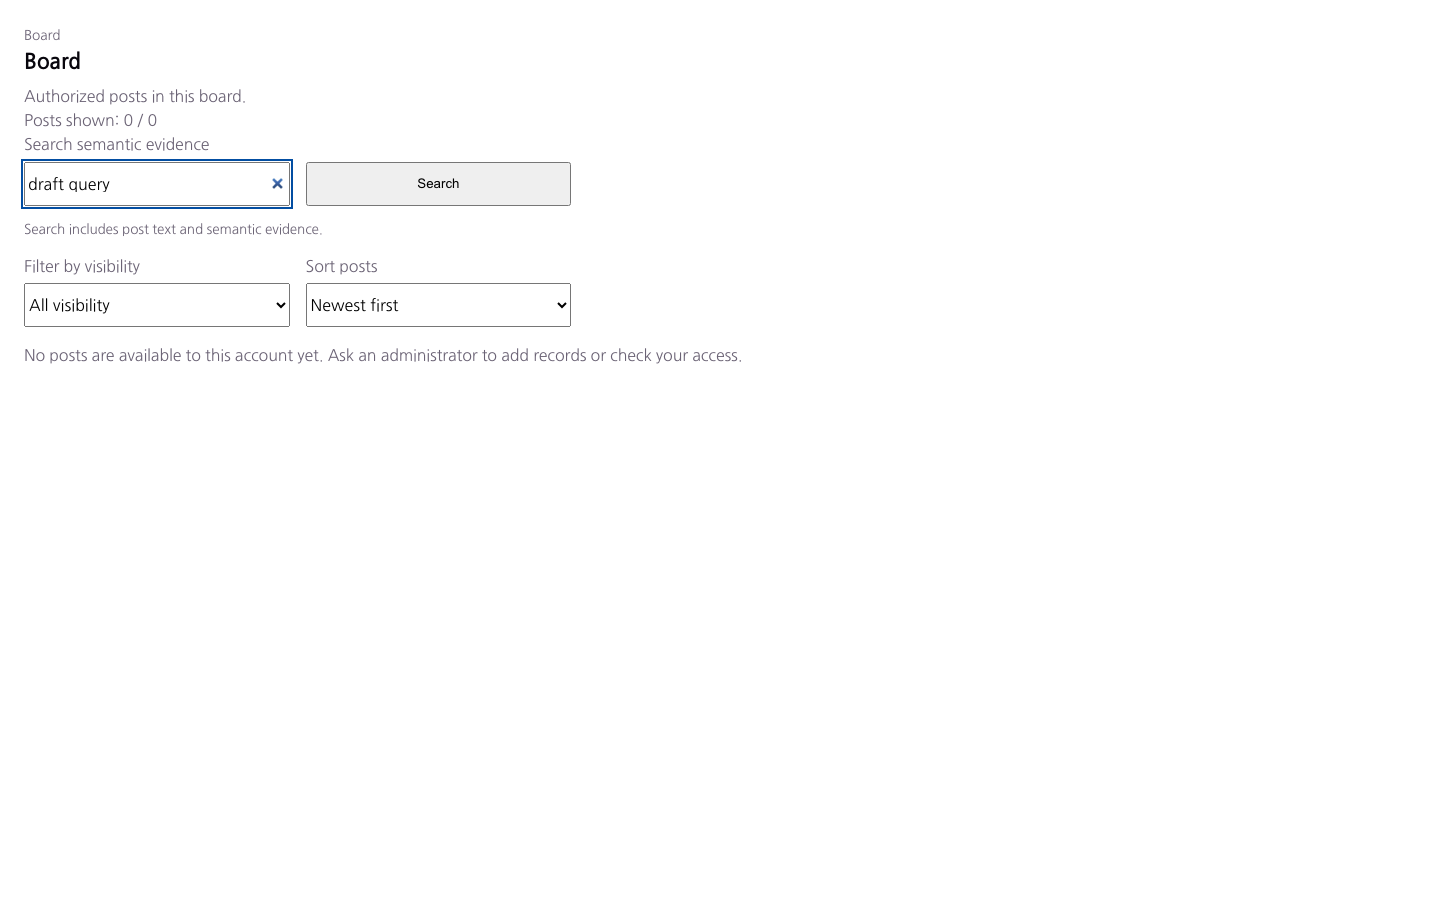
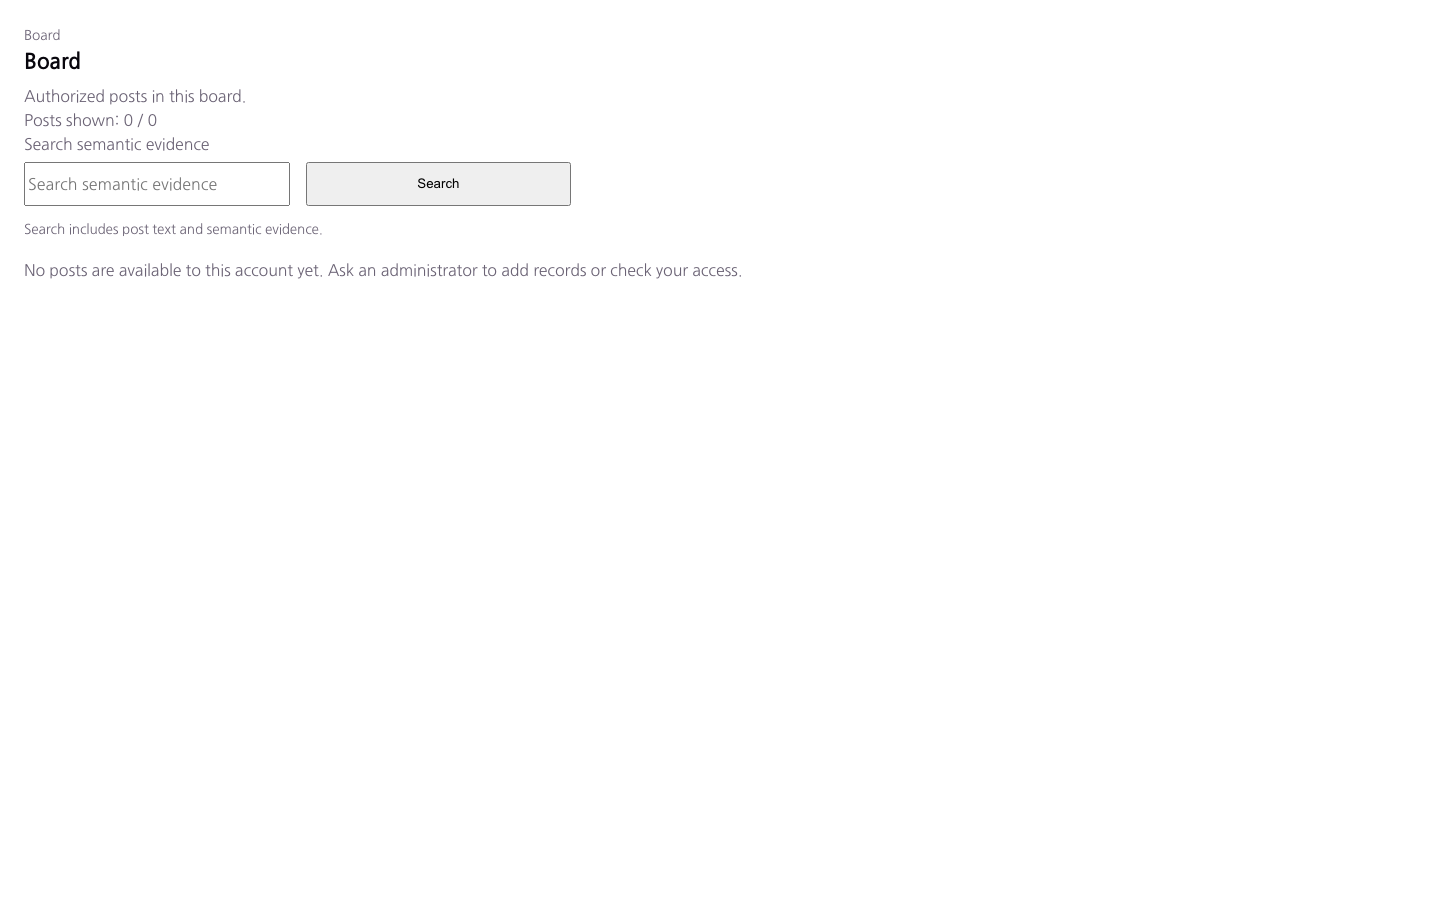
fix(board): hide unusable controls on empty board

diff --git a/frontend/src/App.tsx b/frontend/src/App.tsx
@@ -4458,6 +4458,7 @@ export function PostList({
       return direction * left.created_at.localeCompare(right.created_at);
     });
   const hasBoardFilters = Boolean(searchQuery) || typeFilter.length > 0 || visibilityFilter !== "all";
+  const emptyUnfilteredBoard = totalPosts === 0 && !hasBoardFilters;
   const totalPages = Math.max(1, Math.ceil(totalPosts / POST_PAGE_SIZE));
   const pageItems: Array<number | "ellipsis"> =
     totalPages <= 7
@@ -4548,7 +4549,7 @@ export function PostList({
                 ))}
               </fieldset>
             ) : null}
-            <label>
+            {!emptyUnfilteredBoard && <label>
               {t("Filter by visibility")}
               <select
                 value={visibilityFilter}
@@ -4562,8 +4563,8 @@ export function PostList({
                   </option>
                 ))}
               </select>
-            </label>
-            <label>
+            </label>}
+            {!emptyUnfilteredBoard && <label>
               {t("Sort posts")}
               <select
                 value={sortOrder}
@@ -4574,7 +4575,7 @@ export function PostList({
                 <option value="oldest">{t("Oldest first")}</option>
                 <option value="title">{t("Title A-Z")}</option>
               </select>
-            </label>
+            </label>}
             {hasBoardFilters && (
               <button type="reset" className="board-reset">
                 {t("Reset filters")}

diff --git a/frontend/src/App.test.tsx b/frontend/src/App.test.tsx
@@ -2747,6 +2747,8 @@ describe("App, authenticated", () => {
     );
     expect(within(board).getByRole("search", { name: "Search and filter posts" })).toBeInTheDocument();
     expect(within(board).queryByRole("group", { name: "Filter by VOC type" })).not.toBeInTheDocument();
+    expect(within(board).queryByRole("combobox", { name: "Filter by visibility" })).not.toBeInTheDocument();
+    expect(within(board).queryByRole("combobox", { name: "Sort posts" })).not.toBeInTheDocument();
     expect(within(board).queryByText(/make seed/)).not.toBeInTheDocument();
     await userEvent.type(within(board).getByRole("searchbox", { name: "Search semantic evidence" }), "draft query");
     expect(within(board).getByRole("status")).toHaveTextContent(
@@ -2754,6 +2756,8 @@ describe("App, authenticated", () => {
     );
     await userEvent.click(within(board).getByRole("button", { name: "Search" }));
     expect(await within(board).findByText("No posts match the current filters.")).toBeInTheDocument();
+    expect(within(board).getByRole("combobox", { name: "Filter by visibility" })).toBeInTheDocument();
+    expect(within(board).getByRole("combobox", { name: "Sort posts" })).toBeInTheDocument();
   });
 
   it("hides the previous result set while a new board search is pending", async () => {

diff --git a/frontend/src/components/PostList.stories.tsx b/frontend/src/components/PostList.stories.tsx
@@ -99,11 +99,11 @@ export const EmptyBoard: Story = {
   },
   play: async ({ canvasElement }) => {
     const canvas = within(canvasElement);
-    await expect(await canvas.findByRole("status")).toHaveTextContent(
-      "Ask an administrator to add records or check your access.",
-    );
+    await canvas.findByText(/Ask an administrator to add records or check your access/);
     await expect(canvas.getByRole("search", { name: "Search and filter posts" })).toBeInTheDocument();
     await expect(canvas.queryByRole("group", { name: "Filter by VOC type" })).not.toBeInTheDocument();
+    await expect(canvas.queryByRole("combobox", { name: "Filter by visibility" })).not.toBeInTheDocument();
+    await expect(canvas.queryByRole("combobox", { name: "Sort posts" })).not.toBeInTheDocument();
     await userEvent.type(canvas.getByRole("searchbox", { name: "Search semantic evidence" }), "draft query");
     await expect(canvas.getByRole("status")).toHaveTextContent(
       "Ask an administrator to add records or check your access.",

diff --git a/docs/product-technical-gap-baseline.md b/docs/product-technical-gap-baseline.md
@@ -1,5 +1,54 @@
 # Product & Technical Gap Baseline
 
+## Exact-head continuation — 2026-10-26 04:22 UTC
+
+The current LineageWeave PRD and the linked repositories' product or
+architecture authorities were read before this pass. Remote metadata confirms
+`ContextualWisdomLab/LineageWeave`, `RankWeave`, `ThreadWeave`, `TEPP`, and
+lowercase `disksage`. ADR 0246's twelve atomic Voices and ADR 0256's
+evidence-bearing, open-ended assignments remain separate from ADR 0251's
+occupational semantics. No fixed combination, weight, or population estimate
+was inferred from these authorities or diagnostic observations.
+
+The observed protected `main` is `91c3e1c7411f56408e4ce61417479ace36ff40cb`.
+Ready PR #1183 and this checkout were
+`f6a3ad853b34156b17640fa0752d88ba4db46ed1` before this edit. Its
+exact-head CodeQL and test jobs were terminal failures before steps ran; the
+Full test annotation says the account is locked for billing. The
+formal review state showed no independent approval. Its two review threads are
+resolved. The live ruleset inventory has only active no-force-push rule
+`21065108`; it does not enforce approval or successful checks. Enabling
+auto-merge here could bypass this task's independent-review and successful-check
+conditions, so it remains off. No merge SHA exists.
+
+The selected buyer gap in #1183 is the empty Board's next action. This pass
+keeps its search and access guidance visible while omitting visibility and
+sort controls that have nothing to operate on. Once a reader submits a search,
+those controls return so the no-match state remains recoverable. The existing
+Storybook Board scene and regression test cover both states. New synthetic
+1440×900 and 390×844 screenshots were visually inspected: the action remains
+readable, and neither viewport overflows horizontally. These are candidate UI
+observations, not authenticated customer acceptance.
+
+Frontend lint, production build, all 153 tests in the focused App and ontology
+explorer files, and 45 Python ontology/SHACL/docstring tests passed. The first
+frontend run had four 5-second timeouts while Storybook started concurrently;
+the rerun without that contention passed all 153 tests. The build retained its
+existing large application-chunk warning.
+
+The canonical `lineageweave` Compose project is running, but PostgreSQL,
+Valkey, orchestrator, and search report unhealthy. PostgreSQL container exec
+fails with a container-filesystem I/O error; its data volume was left intact.
+No operator-supplied synthetic access-token file is available for authenticated
+k6, so this pass establishes no concurrency, latency, error-rate, throughput,
+or service-saturation claim. Authenticated PostgreSQL/API and rendered Voice
+proof for distinct carrying and derivation Posts, hidden evidence, cutoff, and
+paged JSON-LD union remain unaccepted. PR #1182 independently edits Board
+filter queries and ADR 0212; #1181 edits this baseline; #1177 and #1178
+overlap #1183's UI or ontology tests. The observed newest candidates introduce
+no competing API, schema, migration ordinal, or release number; older
+conflicts listed below still need current-head reconciliation before merge.
+
 ## Exact-head continuation — 2026-10-26 03:00 UTC
 
 The supporting LineageWeave PRD and the protected-main product authorities for

diff --git a/docs/storybook-inventory.md b/docs/storybook-inventory.md
@@ -7,7 +7,7 @@ operator-facing control you can click before changing product CSS.
 |---|---|---|
 | `Workspace/Post board/SearchPending` | Wait for the new search to finish before opening a result. The old result list and count are hidden during the pending request. `NarrowViewport` checks the same state on a phone-sized screen. Both stories use synthetic records; `board-search-pending-desktop.png` and `board-search-pending-mobile.png` record the rendered states. | `PostList`, existing board and status tokens |
 | `Workspace/Post board/SearchFailure` | Retry the same failed search with its filters still visible. The old result list and count stay hidden, and a provider diagnostic is not shown. `SearchFailureNarrowViewport` checks the same action on a phone-sized screen. Synthetic rendered captures `board-search-failure-desktop.png` and `board-search-failure-mobile.png` show the retry action without horizontal overflow. | `PostList`, `StatusNotice`, existing status tokens |
-| `Workspace/Post board/EmptyBoard` | A reader with no available posts keeps the administrator action while drafting a search; only submitting the search changes the result state. `EmptyBoardNarrowViewport` checks the same state on a phone-sized screen. Synthetic rendered captures `board-empty-desktop.png` and `board-empty-mobile.png` show the drafted query and action without horizontal overflow. | `PostList`, existing board tokens |
+| `Workspace/Post board/EmptyBoard` | A reader with no available posts keeps the administrator action while drafting a search; only submitting the search changes the result state. Unusable Voice, visibility, and sort controls are absent until a result can use them. `EmptyBoardNarrowViewport` checks the same state on a phone-sized screen. Synthetic rendered captures `board-empty-desktop.png` and `board-empty-mobile.png` show the search and action without horizontal overflow. | `PostList`, existing board tokens |
 | `Post/Historical related information` | Inspect only relationships supported by the selected date, then open a post to inspect the history available then. `CutoffEvidence` and `NarrowViewport` keep this next action legible without showing current-only Keyman relations. Desktop and mobile captures also audit the expanded unavailable state and retry action (`historical-related-cutoff-expanded-*.png`); they are synthetic Storybook evidence, not an authenticated Post journey. | `HistoricalRelatedPanel`, existing popup and control tokens |
 | `Evidence/OntologyExplorer/SignInRequired` | Sign in again after authentication expires; no same-credential Retry or export is available. Desktop/mobile retain the shared named unavailable region. | `OntologyExplorer`, `StatusNotice`, existing status tokens |
 | `Evidence/OntologyExplorerRetry/InitialRequestRetry` | Retry the same failed related-information request without reopening the Post; desktop/mobile show the shared retry alert and keep exports disabled until evidence arrives. Synthetic diagnostics stay hidden. | `OntologyExplorer`, `StatusNotice`, existing badge-status tokens |
